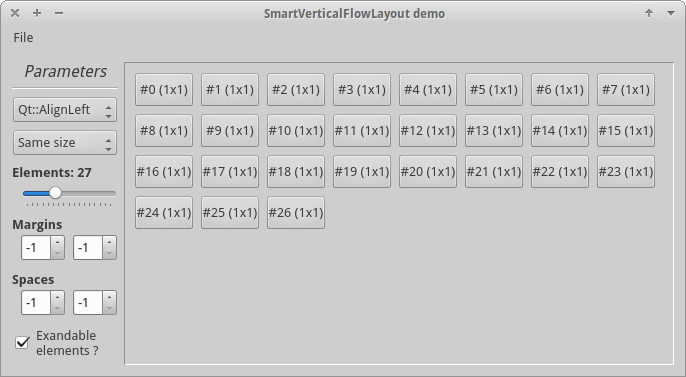
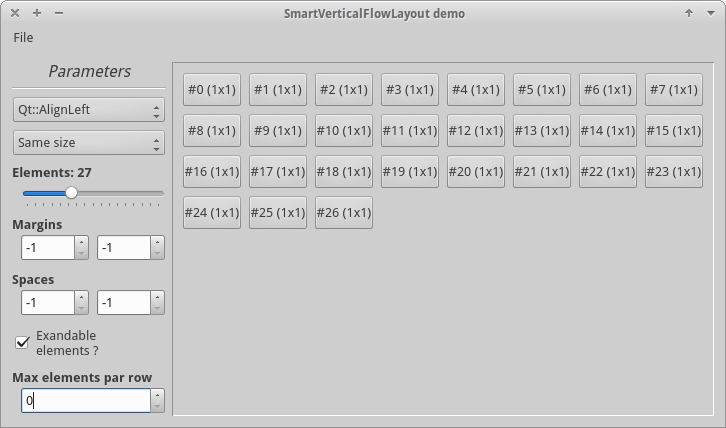
Update Readme and screenshots

diff --git a/README.md b/README.md
@@ -15,9 +15,13 @@ Enjoy ! :-)
 
 ## Screeshots
 
+
+
 ![Screenshot at startup](https://github.com/VaysseB/SmartVerticalFlowLayout/blob/master/screenshot_default.png)
 
 ![Screenshot with stretch option](https://github.com/VaysseB/SmartVerticalFlowLayout/blob/master/screenshot_stretch.png)
+
+![Screenshot with max element par row option](https://github.com/VaysseB/SmartVerticalFlowLayout/blob/master/screenshot_maxelements_centered.png)
 
 ## License
 
